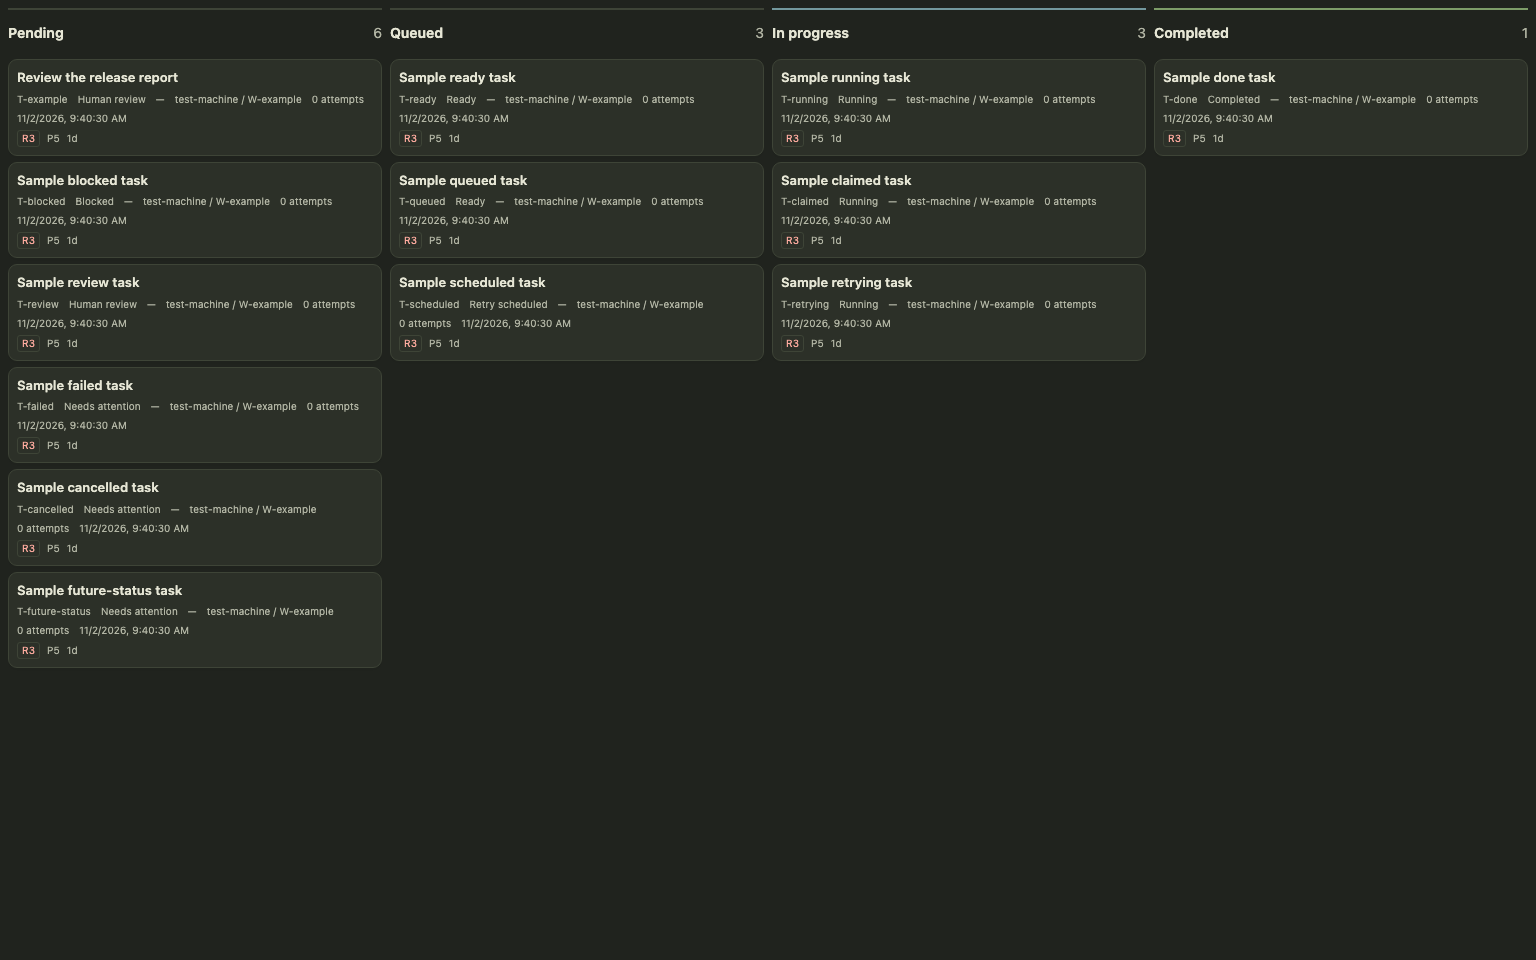
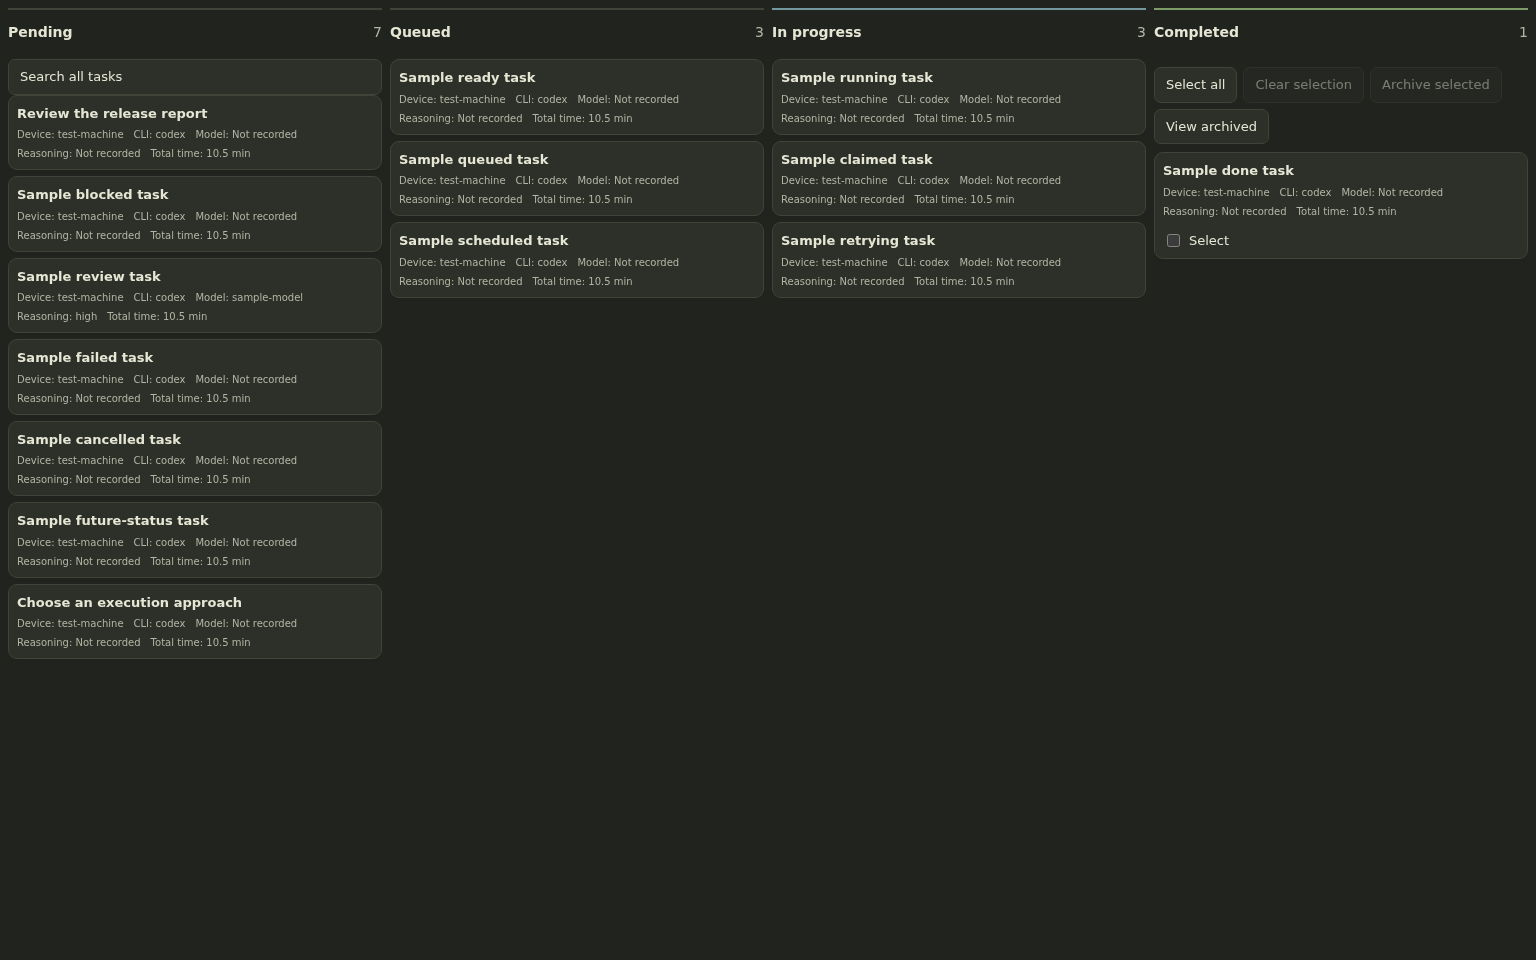
Validate Fleet contracts and responsive kanban workflows with isolated integration

diff --git a/dashboard/src/task-control-tower.ts b/dashboard/src/task-control-tower.ts
@@ -77,6 +77,23 @@ export function createTaskControlTower(
       return () => { clearTimeout(timer); ++searchVersion.current; };
     }, [query, archiveView, searchOpen]);
     const refreshLock = useRef(false);
+    useEffect(() => {
+      let cancelled = false;
+      const queue = tasks.filter(t => t.read_only).map(t => t.id);
+      const worker = async () => {
+        while (queue.length && !cancelled) {
+          const id = queue.shift()!;
+          try {
+            const { task } = await api.detail(id);
+            if (!task || task.id !== id) continue;
+            if (!cancelled) setTasks(previous => previous.map(t => t.id === id ? { ...t,
+              model_used: task.model_used, reasoning_effort: task.reasoning_effort, duration_seconds: task.duration_seconds } : t));
+          } catch { /* Missing metadata stays explicitly unrecorded; board remains usable. */ }
+        }
+      };
+      void Promise.all(Array.from({ length: Math.min(4, queue.length) }, worker));
+      return () => { cancelled = true; };
+    }, [lastSuccess]);
     const [detail, setDetail] = useState(null as Detail | null),
       [selected, setSelected] = useState("");
     const [error, setError] = useState(""),
@@ -494,7 +511,7 @@ export function createTaskControlTower(
             h("section", { key: c.id, "data-column": c.id },
               h("h2", null, c.label()), columnTools(c.id), tasks.filter(t => c.statuses.includes(t.status)).map(t => card(t, true))))),
       )),
-      searchOpen ? h("section", { className: "tower-search", "aria-label": tr("搜索全部任务", "Search all tasks") },
+      searchOpen ? h("section", { className: "tower-search", onKeyDown: (e: KeyboardEvent) => { if (e.key === "Escape") { e.stopPropagation(); setSearchOpen(false); } }, "aria-label": tr("搜索全部任务", "Search all tasks") },
         btn(tr("关闭搜索", "Close search"), () => setSearchOpen(false)),
         h("h2", null, archiveView ? tr("已归档", "Archived") : tr("全部任务（包含归档）", "All tasks (including archived)")),
         h("input", { type: "search", value: query, maxLength: 256, "aria-label": tr("搜索任务", "Search tasks"), onChange: (e: any) => setQuery(e.target.value) }),
@@ -551,7 +568,7 @@ export function createTaskControlTower(
                       "section",
                       { className: "tower-next" },
                       h("h3", null, tr("摘要", "Summary")),
-                      h("p", null, t.review_actions ? tr("核对交付后确认，或提交修改意见", "Review the delivery, then approve or request changes") : t.read_only ? tr("只读连接：请在 Fleet 中操作", "Read-only connection: use Fleet to make changes") : nextAction(t)),
+                      h("p", null, t.review_actions ? tr("核对交付后确认，或提交修改意见", "Review the delivery, then approve or request changes") : t.lifecycle_actions ? tr("任务状态由执行者推进，可使用下方可用操作", "The worker advances this task. Use the available actions below.") : t.read_only ? tr("只读连接：请在 Fleet 中操作", "Read-only connection: use Fleet to make changes") : nextAction(t)),
 
                       t.spec_json?.summary ? h("p", { style: { whiteSpace: "pre-wrap" } }, t.spec_json.summary) : null,
                       t.review_actions ? h("section", { className: "tower-review", "aria-busy": busy },
@@ -612,14 +629,6 @@ export function createTaskControlTower(
                     ),
                     h("section", { className: "tower-runtime" }, h("h3", null, tr("运行信息", "Run information")),
                       h("p", null, [t.machine, t.capability, t.model_used, t.reasoning_effort].filter(Boolean).join(" · ") || tr("未提供", "Not recorded"))),
-                    h("section", { className: "tower-sessions" }, h("h3", null, tr("会话", "Sessions")),
-                      ...([
-                        [tr("来源会话", "Source conversation"), t.source_session_id, t.source_profile, t.source_session_kind],
-                        [tr("执行会话", "Execution conversation"), t.conversation_id, t.conversation_profile, t.conversation_kind],
-                      ] as const).map(([label, id, scope, kind]) => h("div", { key: label },
-                        h("h4", null, label), id && scope && ["hermes", "codex"].includes(kind || "")
-                          ? btn(id, () => navigate(`/chat?${kind === "hermes" ? "hermesSession" : "session"}=${encodeURIComponent(id)}`, scope || profile))
-                          : h("p", { className: "tower-muted" }, id ? tr("已记录会话编号，但缺少档案或会话类型，无法安全打开", "Conversation recorded, but profile or kind is missing; cannot open safely") : tr("历史任务未记录此会话", "This historical task did not record a conversation"))))) ,
                     t.status === "blocked" || t.status === "triage" ? h("section", { className: "tower-blocker" },
                       h("h3", null, tr("需要处理", "Needs attention")),
                       t.lifecycle_actions && t.status === "blocked" && !decision ? btn(tr("解除阻塞并重试", "Unblock and retry"), () => void run(() => api.lifecycle(t.id, "retry")), { disabled: busy }) : null,
@@ -627,7 +636,7 @@ export function createTaskControlTower(
                     h(
                       "section",
                       { className: "tower-checklist" },
-                      h("h3", null, tr("验收清单", "Acceptance checklist")),
+                      h("h3", null, tr("验收", "Acceptance")),
                       t.acceptance.length
                         ? t.acceptance.map((c, i) =>
                             h(
@@ -701,6 +710,14 @@ export function createTaskControlTower(
                               ),
                         )
                       : null,
+                    h("section", { className: "tower-sessions" }, h("h3", null, tr("会话", "Sessions")),
+                      ...([
+                        [tr("来源会话", "Source conversation"), t.source_session_id, t.source_profile, t.source_session_kind],
+                        [tr("执行会话", "Execution conversation"), t.conversation_id, t.conversation_profile, t.conversation_kind],
+                      ] as const).map(([label, id, scope, kind]) => h("div", { key: label },
+                        h("h4", null, label), id && scope && ["hermes", "codex"].includes(kind || "")
+                          ? btn(id, () => navigate(`/chat?${kind === "hermes" ? "hermesSession" : "session"}=${encodeURIComponent(id)}`, scope || profile))
+                          : h("p", { className: "tower-muted" }, id ? tr("已记录会话编号，但缺少档案或会话类型，无法安全打开", "Conversation recorded, but profile or kind is missing; cannot open safely") : tr("历史任务未记录此会话", "This historical task did not record a conversation"))))) ,
                     draft
                       ? h(
                           "form",

diff --git a/tests/fleetd-api.test.ts b/tests/fleetd-api.test.ts
@@ -50,3 +50,12 @@ describe("fleetd snapshot", () => {
   });
 
 });
+
+it("sends Unicode search and opaque cursors to the server including archived scope", async () => {
+  const calls: string[] = [];
+  const api = fleetAPI(async <T>(url: string) => { calls.push(url); return { tasks: [], has_more: false, next_cursor: "" } as T; });
+  await api.search("旧任务 %_", true, "page:a+/=");
+  const url = new URL(calls[0], "http://localhost");
+  expect(url.pathname).toBe("/api/plugins/workbench/fleetd/tasks/search");
+  expect(Object.fromEntries(url.searchParams)).toEqual({q: "旧任务 %_", archived: "true", cursor: "page:a+/="});
+});

diff --git a/dashboard/fleetd_proxy.py b/dashboard/fleetd_proxy.py
@@ -1,6 +1,7 @@
 """Same-origin, authenticated, task console API for fleetd v1."""
 import json
 import os
+from datetime import datetime, timezone
 from fastapi import APIRouter, HTTPException, Request, Query
 from urllib.parse import urlencode
 from starlette.concurrency import run_in_threadpool
@@ -108,11 +109,30 @@ def detail(task_id: str):
         raise HTTPException(502, "Invalid Fleet task detail; retry")
     row = task(data["task"])
     summary = data["task"].get("spec_json", "")
-    row["spec_json"] = {"summary": summary if isinstance(summary, str) else summary.get("summary", "")}
+    try:
+        spec = json.loads(summary) if isinstance(summary, str) else summary
+    except ValueError:
+        spec = None
+    row["spec_json"] = {"summary": (spec.get("summary") or spec.get("prompt") or "") if isinstance(spec, dict) else summary if isinstance(summary, str) else ""}
+    if isinstance(spec, dict):
+        for target, source in (("model_used", "model"), ("reasoning_effort", "reasoning_effort")):
+            if isinstance(spec.get(source), str):
+                row[target] = spec[source]
     acceptance = data["task"].get("acceptance", "")
     if isinstance(acceptance, str):
         row["acceptance"] = [{"label": s, "checked": row["status"] == "done"} for s in acceptance.splitlines() if s.strip()]
     attempts = data.get("attempts") or []
+    model = next((a.get("model_used") for a in attempts if a.get("model_used")), None)
+    if model:
+        row["model_used"] = model
+    # Missing/truncated attempt history is not a trustworthy total.
+    if attempts and len(attempts) < 50 and all(a.get("ended_at") or a.get("status") == "running" for a in attempts):
+        try:
+            total = sum(max(0, ((datetime.fromisoformat(a["ended_at"].replace("Z", "+00:00")) if a.get("ended_at") else datetime.now(timezone.utc))
+                               - datetime.fromisoformat(a["started_at"].replace("Z", "+00:00"))).total_seconds()) for a in attempts)
+            row["duration_seconds"] = total
+        except (ValueError, KeyError, TypeError):
+            pass
     # v1's list attempts counter counts retries, so detail records are authoritative.
     row["attempt_count"] = len(attempts)
     if not row.get("conversation_id"):
@@ -120,7 +140,21 @@ def detail(task_id: str):
     if row["status"] in ("blocked", "triage") and not row.get("blocked_reason"):
         row["blocked_reason"] = next((a.get("error") or a.get("reason") for a in attempts if a.get("error") or a.get("reason")), None)
 
-    choices = [decision(d) for d in client.collection("decisions", status="open")
+    if row["status"] in ("blocked", "triage") and not row.get("blocked_reason"):
+        for event in data.get("events", []):
+            if event.get("type") not in ("task.blocked", "task.failed"):
+                continue
+            try:
+                payload = json.loads(event.get("payload", "{}"))
+            except (ValueError, TypeError):
+                continue
+            if isinstance(payload, dict):
+                reason = payload.get("detail") or payload.get("reason")
+                if isinstance(reason, str) and reason:
+                    row["blocked_reason"] = reason
+                    break
+    decisions = ([data["decision"]] if isinstance(data.get("decision"), dict) else []) if "decision" in data else client.collection("decisions", status="open")
+    choices = [decision(d) for d in decisions
                if d.get("status") == "open" and d.get("task_id") == task_id]
     row["decision"] = choices[0] if choices else None
     return reply({"task": row, "open_decision": row["decision"], "artifacts": [],

diff --git a/tests/browser/fleetd-review-integration.py b/tests/browser/fleetd-review-integration.py
@@ -40,5 +40,23 @@ with tempfile.TemporaryDirectory(prefix='fleet-review-isolated-') as tmp:
             assert r.status_code==200,(r.status_code,r.text)
             detail=api('GET','tasks/'+task['id']);assert detail['task']['status']==expected
             if body:assert any(e['type']=='task.note' and e['payload']==body['text'] for e in detail['events'])
+        api('POST','workers',{'id':'isolated-worker','machine':'no-worker-test','caps':['agy','codex'],'status':'online'})
+        for action, initial, expected in [('archive','done','archived'),('retry','blocked','ready')]:
+            task=api('POST','tasks',{'title':'Isolated lifecycle test','kind':'research','machine':'no-worker-test','prompt':'Fixture only','acceptance':'test'})['task']
+            with sqlite3.connect(tmp+'/fleet.db') as db:db.execute("UPDATE tasks SET status=? WHERE id=?",(initial,task['id']))
+            r=c.post('/api/plugins/workbench/fleetd/tasks/'+task['id']+'/'+action,headers=headers,json={})
+            assert r.status_code==200,(r.status_code,r.text)
+            assert api('GET','tasks/'+task['id'])['task']['status']==expected
+        task=api('POST','tasks',{'title':'Isolated decision test','kind':'research','risk':'R3','machine':'no-worker-test','prompt':'Fixture only','acceptance':'test'})['task']
+        api('POST','tasks/'+task['id']+'/decision',{'question':'Proceed?','options':['Retry','Stop']})
+        detail=c.get('/api/plugins/workbench/fleetd/tasks/'+task['id'],headers=headers).json()
+        d=detail['open_decision']
+        r=c.post('/api/plugins/workbench/fleetd/tasks/'+task['id']+'/decide',headers=headers,json={'decision_id':d['id'],'option_id':d['options'][0]['id']})
+        assert r.status_code==200,(r.status_code,r.text)
+        assert api('GET','tasks/'+task['id'])['task']['status']=='ready'
+        r=c.get('/api/plugins/workbench/fleetd/tasks/search',headers=headers,params={'q':'Isolated lifecycle','archived':'true'})
+        assert r.status_code==200,(r.status_code,r.text)
+        assert len(r.json()['tasks'])==1 and r.json()['tasks'][0]['status']=='archived'
+        print('PASS real fleetd binary: archive, retry, decision, indexed archived search')
         print('PASS real fleetd binary: authenticated proxy approve -> done; note event -> request_changes -> running')
     finally:p.terminate();p.wait(timeout=5);log.close()

diff --git a/tests/test_fleetd_proxy.py b/tests/test_fleetd_proxy.py
@@ -282,3 +282,21 @@ def test_lifecycle_contract(client, monkeypatch, action, status, payload, expect
     assert response.status_code == 200, response.text
     assert writes == [("tasks/T-example/" + action, expected)]
     assert client.post(BASE + "/tasks/T-example/" + action, headers={**headers, "origin": "https://evil.example"}, json=payload).status_code == 403
+
+
+def test_runtime_and_session_metadata_are_not_invented(client, monkeypatch):
+    row = {"id": "T-meta", "status": "blocked", "spec_json": '{"prompt":"Do the work","model":"requested-model","reasoning_effort":"high"}'}
+    data = {"task": row, "decision": None, "attempts": [
+        {"status": "failed", "started_at": "2026-01-01T00:00:00Z", "ended_at": "2026-01-01T00:02:00Z", "model_used": "actual-model"},
+        {"status": "ok", "started_at": "2026-01-01T00:03:00Z", "ended_at": "2026-01-01T00:04:00Z"}],
+        "events": [{"type": "task.blocked", "payload": '{"detail":"No matching worker"}'}]}
+    monkeypatch.setattr(transport.FleetClient, "get", lambda *_: data)
+    mapped = client.get(BASE + "/tasks/T-meta", headers=HEADERS).json()["task"]
+    assert mapped["duration_seconds"] == 180
+    assert mapped["model_used"] == "actual-model"
+    assert mapped["reasoning_effort"] == "high"
+    assert mapped["spec_json"] == {"summary": "Do the work"}
+    assert mapped["blocked_reason"] == "No matching worker"
+    assert not mapped.get("source_session_id") and not mapped.get("conversation_id")
+    data["attempts"] *= 25
+    assert "duration_seconds" not in client.get(BASE + "/tasks/T-meta", headers=HEADERS).json()["task"]

diff --git a/docs/validation/global-kanban/README.md b/docs/validation/global-kanban/README.md
@@ -1,0 +1,37 @@
+# Global kanban rescue validation
+
+Screenshots in this directory are actual localhost browser captures using fictional fixture data, in English. They are not production screenshots.
+
+- Desktop: 1536 × 960, light and dark; four fixed columns, no toolbar or duplicate attention panel.
+- Mobile: 390 × 960, light and dark; automatic grouped list, compact navigation, bounded drawer.
+- Card metadata: device, CLI, model, reasoning and total attempt runtime in minutes. Missing metadata is explicitly unrecorded; incomplete attempt history is not presented as a total.
+- Review: approve and multiline request changes through the authenticated Python proxy; failed writes preserve input.
+- Lifecycle: real archive, retry and decision contracts; partial batch failures retain only failed selections.
+- Search: server-side title/ID/repository substring search, archived inclusion, opaque cursor pagination, empty/error/retry states. No client-side fallback over the current board window.
+- Conversations: explicit source/execution profile and kind associations open the corresponding conversation. Historical IDs without routing metadata display an explanation instead of guessing a destination.
+- Navigation: canonical global route, reload/history, desktop W menu, mounted chat and unsent draft restoration.
+- Home: compact profile groups; ordering and project-label preferences persist via settings.
+
+## Fleet integration
+
+`tests/browser/fleetd-review-integration.py` runs the real fleetd binary against a disposable localhost database, with separate test worker and review credentials. It verifies approve, note/request_changes, archive, retry, decision and archived search. No worker process executes these tasks.
+
+Verified against Fleet commit `987f824` (indexed task search and keyset pagination), fetched from its default branch. Search follows `GET /api/v1/tasks?q=...&include_archived=1&limit=100&cursor=...`; the response must include `has_more` and `next_cursor`. An older server that silently ignores `q` produces an explicit unsupported-search message. The proxy validates and forwards each page; it does not download all history for local matching.
+
+Reproduction:
+
+```sh
+pnpm typecheck
+pnpm test
+pnpm build
+pnpm test:python
+pnpm test:browser
+pnpm test:quotas:e2e
+FLEET_TEST_BINARY=/path/to/isolated/fleetd uv run --no-project --with-requirements requirements-dev.txt python tests/browser/fleetd-review-integration.py
+```
+
+## Explicit limits
+
+Production fleetd availability/version, production credentials, real worker execution and production session linkage were not tested. The Fleet task creation API does not currently provide complete source-session/profile/kind linkage; Workbench projects only recorded associations. Missing reasoning/model metadata is not fabricated. Total runtime is withheld for missing or truncated attempt history. A retry may remain blocked if fleetd cannot find a matching worker.
+
+No deployment, service restart, release switching or modification to the installed `current` tree is part of this PR.
